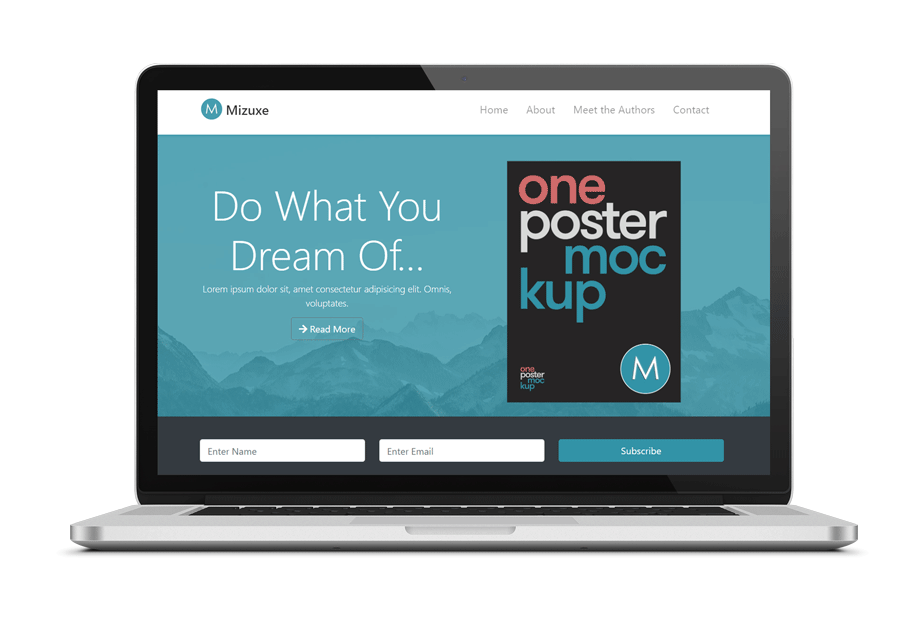
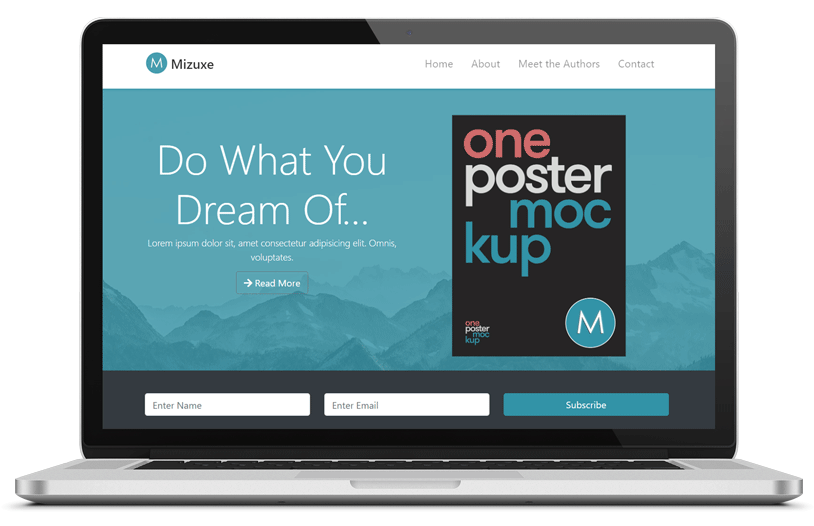
fixed slider, customized navbar

diff --git a/index.html b/index.html
@@ -16,7 +16,7 @@
 
 
     <!-- NAV BAR -->
-    <nav id="main-nav" class="navbar navbar-expand-sm navbar-dark fixed-top bg-dark">
+    <nav id="main-nav" class="navbar navbar-expand-sm navbar-dark fixed-top bg-dark py-0">
         <div class="container">
         <!-- <a class="navbar-brand" href="#"><img src="/Design-Portfolio/images/tws_logo.png" width=55px alt=""></a> -->
         <button class="navbar-toggler" data-toggle="collapse" data-target="#navbarCollapse">
@@ -31,7 +31,7 @@
                     <a class="nav-link" href="#BT-Realty" onclick="openAccordion()">Web-App</a>
                 </li>
                 <li class="nav-item ">
-                    <a class="nav-link" href="#design-concept-header">Designs</a>
+                    <a class="nav-link" href="#design-concept-slider">Designs</a>
                 </li>
                 
 
@@ -224,106 +224,55 @@
         </div>
     </section>
 
-    <!-- DESIGN CONCEPT Header -->
-    <!-- <section id="design-concept-header">
-        <div class="dark-overlay2">
-            <div class="row">
-                <div class="col">
-                    <div class="pt-md-5">
-                        <br>
-                        <h1>Design Concepts</h1> 
-                    </div>
-                </div>
-            </div>                                          
-        </div>
-    </section> -->
-
-
-    <!-- DESIGN CONCEPTS -->
-    <!-- <div id="design-concepts-body" class="container">
-        <div class="row">
-            <div class="col m-auto">
-                <div class="">
-                    <div class="">
-                        <div id="first" class="">
-                            <div class="row">
-                                <div class="col d-block concept-caption">
-                                    <h2 class="display-4">Social Media</h2>
-                                    <p class="lead">LoopLab- a social media concept. Features smooth scrolling navigation and a pop-up contact modal.
-                                    </p>
-                                    <a href="https://a99barnsey.github.io/Design-Portfolio/sites/loop lab/index.html" class="btn btn-danger btn-lg">Explore Design</a>
-                                </div>
-                                <div class="col-6 d-none d-lg-block">
-                                    <img class="carousel-img" src="/Design-Portfolio/images/site_link_images/looplab_laptop_sm.png" alt="">
-                                </div>
-                            </div>
-                        </div>
-                        <div id="second" class="">
-                            <div class="row">
-                                <div class="col d-none d-lg-block">
-                                    <img class="carousel-img" src="https://a99barnsey.github.io//Design-Portfolio/images/site_link_images/mizuxe_laptop_sm.png" alt="">
-                                </div>
-                                <div class="col d-block concept-caption">
-                                    <h2 class="display-4">Media Promotion</h2>
-                                    <p class="lead">Mizuxe- a media/art/product promotion concept. Features a collapsing accordion section and stylish cards for authors and
-                                    staff.
-                                    </p>
-                                    <a href="https://a99barnsey.github.io/Design-Portfolio/sites/Mizuxe/index.html" class="btn btn-danger btn-lg">Explore Design</a>
-                                </div>
-
-                            </div>
-                        </div>
-                        <div id="third" class="">
-                            <div class="row">
-                                <div class="col d-block concept-caption">
-                                    <h2 class="display-4">Tech Startup</h2>
-                                    <p class="lead">Glozzom- a multi-page tech startup promotion concept. Features a carousel and Youtube video embedding.
-                                    </p>
-                                    <a href="https://a99barnsey.github.io/Design-Portfolio/sites/Glozzom/index.html" class="btn btn-danger btn-lg" >Explore Design</a>
-                                </div>
-                                <div class="col d-none d-lg-block">
-                                    <img class="carousel-img" src="/Design-Portfolio/images/site_link_images/glozzom_laptop_sm.png" alt="">
-                                </div>
-                            </div>
-                        </div>
-
-                    </div>
-                </div>
-            </div>
-        </div>
-    </div> -->
 
 <!-- SHOWCASE SLIDER -->
-<section id="showcase" >
-    <div id="myCarousel" class="carousel slide" data-ride="carousel">
+<section id="design-concept-slider" >
+    <div id="myCarousel" class="carousel slide mt-3 " data-ride="carousel">
         <ol class="carousel-indicators">
             <li class="active" data-target="#myCarousel" data-slide-to="0"></li>
             <li data-target="#myCarousel" data-slide-to="1"></li>
             <li data-target="#myCarousel" data-slide-to="2"></li>
         </ol>
         <div class="carousel-inner">
-            <h2 class="mt-3" style="text-align: center;">Design Concepts</h2>
+            <h1 class="mt-3 px-4" style="text-align: center">Design Concepts</h1>
             <div class="carousel-item carousel-image-1 active">
                 <div class="container">
-                    <div class="carousel-caption text-center mb-2">
-                        <a href="https://a99barnsey.github.io/Design-Portfolio/sites/loop lab/index.html" class="btn btn-danger">Explore Social Media</a>
+                    <div class="d-flex flex-column justify-content-center">
+                        <!-- image -->
+                            <img src="/images/site_link_images/looplab_laptop_sm.png" alt="" class="img-fluid mx-auto img-max w-100" > 
+                        <!-- caption -->
+                        <div class=" text-center mb-5">
+                            <p class="concept-description">Social Media</p>
+                            <a href="https://a99barnsey.github.io/Design-Portfolio/sites/loop lab/index.html" class="btn btn-danger">Explore</a>
+                        </div>                        
                     </div>
-                </div>
+                </div>                
             </div>
-
-            <div class="carousel-item carousel-image-2 ">
+            <div class="carousel-item carousel-image-2">
                 <div class="container">
-                    <div class="carousel-caption text-center mb-2">
-                        <a href="https://a99barnsey.github.io/Design-Portfolio/sites/Mizuxe/index.html" class="btn btn-danger">Explore Media Promotion</a>
+                    <div class="d-flex flex-column justify-content-center">
+                        <!-- image -->
+                            <img src="/images/site_link_images/mizuxe_laptop_sm.png" alt="" class="img-fluid mx-auto img-max w-100" > 
+                        <!-- caption -->
+                        <div class=" text-center mb-5">
+                            <p class="concept-description">Media Promotion</p>
+                            <a href="https://a99barnsey.github.io/Design-Portfolio/sites/Mizuxe/index.html" class="btn btn-danger">Explore</a>
+                        </div>                        
                     </div>
-                </div>
+                </div>                
             </div>
             <div class="carousel-item carousel-image-3">
                 <div class="container">
-                    <div class="carousel-caption text-center mb-2">
-                        <a href="https://a99barnsey.github.io/Design-Portfolio/sites/Glozzom/index.html" class="btn btn-danger">Explore Tech Startup</a>
+                    <div class="d-flex flex-column justify-content-center">
+                        <!-- image -->
+                            <img src="/images/site_link_images/glozzom_laptop_sm.png" alt="" class="img-fluid mx-auto img-max w-100" > 
+                        <!-- caption -->
+                        <div class=" text-center mb-5">
+                            <p class="concept-description">Tech Startup</p>
+                            <a href="https://a99barnsey.github.io/Design-Portfolio/sites/Glozzom/index.html" class="btn btn-danger">Explore</a>
+                        </div>                        
                     </div>
-                </div>
+                </div>                
             </div>
         </div>
         <a href="#myCarousel" class="carousel-control-prev" data-slide="prev">

diff --git a/css/style.css b/css/style.css
@@ -4,11 +4,10 @@ body {
 }
 
 .navbar {
-    /* background: rgba(207, 207, 207, 0.555); */
-    border-bottom: rgb(146, 1, 1) 3px solid;
-    /* color: rgb(146, 1, 1); */
-    opacity: .92;
+    border-bottom: black(146, 1, 1) 3px solid;
 }
+
+button.navbar-toggler:focus { outline: 1px none; }
 
 .navbar .nav-link {
     font-size: 14px;
@@ -17,6 +16,9 @@ body {
     padding-right: 1rem !important;
 }
 
+#main-nav .active {
+    background-color: rgb(221, 0, 0) !important;
+}
 
 #main-footer {
     /* background: rgba(207, 207, 207, 0.555); */
@@ -68,9 +70,6 @@ body {
     color: rgb(255, 255, 255);
 }
 
-.card-body {
-    opacity: 0.8;
-}
 
 #design-concept-header {
     position: relative;
@@ -111,88 +110,26 @@ body {
 }
 
 
-
 .bg-red {
     background: red;
     color: white;
 }
 
-/* NEW Carousel CSS */
-/* #showcase {
-    background: url(../sites/Glozzom/images/lights.jpg);
-} */
-
-.carousel-item {
-    height: 620px;
-}
-
-.carousel-image-1 {
-    background: url(../images/site_link_images/looplab_laptop_sm_background.png);
-    background-size: contain;
-    background-repeat: no-repeat;
-    background-position: center;
-}
-
-.carousel-image-2 {
-    background: url(../images/site_link_images/mizuxe_laptop_sm_background.png);
-    background-size: contain;
-    background-repeat: no-repeat;
-    background-position: center;
-}
-.carousel-image-3 {
-    background: url(../images/site_link_images/glozzom_laptop_sm_background.png);
-    background-size: contain;
-    background-repeat: no-repeat;
-    background-position: center;
+.concept-description {
+    font-size: 2rem;
+    margin-bottom: 0.2rem;
 }
 
 
-/*END NEW Carousel CSS */
-
-/* OLD Carousel CSS */
-
-/* #showcase {
-    background: black;
+.carousel-indicators {
+    bottom: -5px;
 }
 
-.concept-caption {
-    text-align: center;
-    justify-content: center;
-    padding-top: 70px;
-    padding-bottom: 30px;
+.img-max {
+    max-width: 526px;
+    width: 100%;
+    
 }
-
-.carousel-item {
-    height: 550px;
-    max-width: 100%;
-    margin-left: auto;
-    margin-right: auto;
-
-}
-
-.carousel-img {
-    max-width: 500px;
-    height: auto;
-} */
-/* END OLD Carousel CSS */
-
-/* 
-#accordion {
-    background: red;
-    color: black;
-}
-
-.card {
-    background: red;
-    color: white;
-    border: 3px;
-    outline: green;
-} */
-
-/* .card-header { */
-    /* border: none !important; */
-    /* background-color: red; */
-/* } */
 
 
 @media (max-width: 768px) {
@@ -253,42 +190,23 @@ body {
     .icon-large{
         display: none;
     }
-    .carousel-item {
-    height: 570
-    }
-    .carousel-image-1 {
-        background: url(../images/site_link_images/looplab_laptop_sm.png);
-        background-size: contain;
-        background-repeat: no-repeat;
-        background-position: center top;
-    }
-
-    .carousel-image-2 {
-        background: url(../images/site_link_images/mizuxe_laptop_sm.png);
-        background-size: contain;
-        background-repeat: no-repeat;
-        background-position: center top;
-    }
-    .carousel-image-3 {
-        background: url(../images/site_link_images/glozzom_laptop_sm.png);
-        background-size: contain;
-        background-repeat: no-repeat;
-        background-position: center top;
+    .concept-description {
+        font-size: 1.75rem;
     }
 }
 
 @media (max-width: 410px) {
     #main-section h1 {
         font-size: 2.25rem; }
-
-    .carousel-item {
-    height: 300px;
+    .concept-description {
+        font-size: 1.5rem;
     }
+
 }
 
 @media (max-width: 300px) {
     #main-section h1 {
-      font-size: 1.5rem; }
+      font-size: 1.3rem; }
 
     #main-section .main-inner {
     padding-top: 75px;
@@ -299,13 +217,9 @@ body {
     #design-concept-header h1{
         font-size: 2rem;
     }
-    .carousel-item {
-    height: 280px;
-    }
+
     #home-icons p{
         display: none;
     }
-    /* #home-icons {
-        padding-top: 1 !important;
-    } */
+
 }
